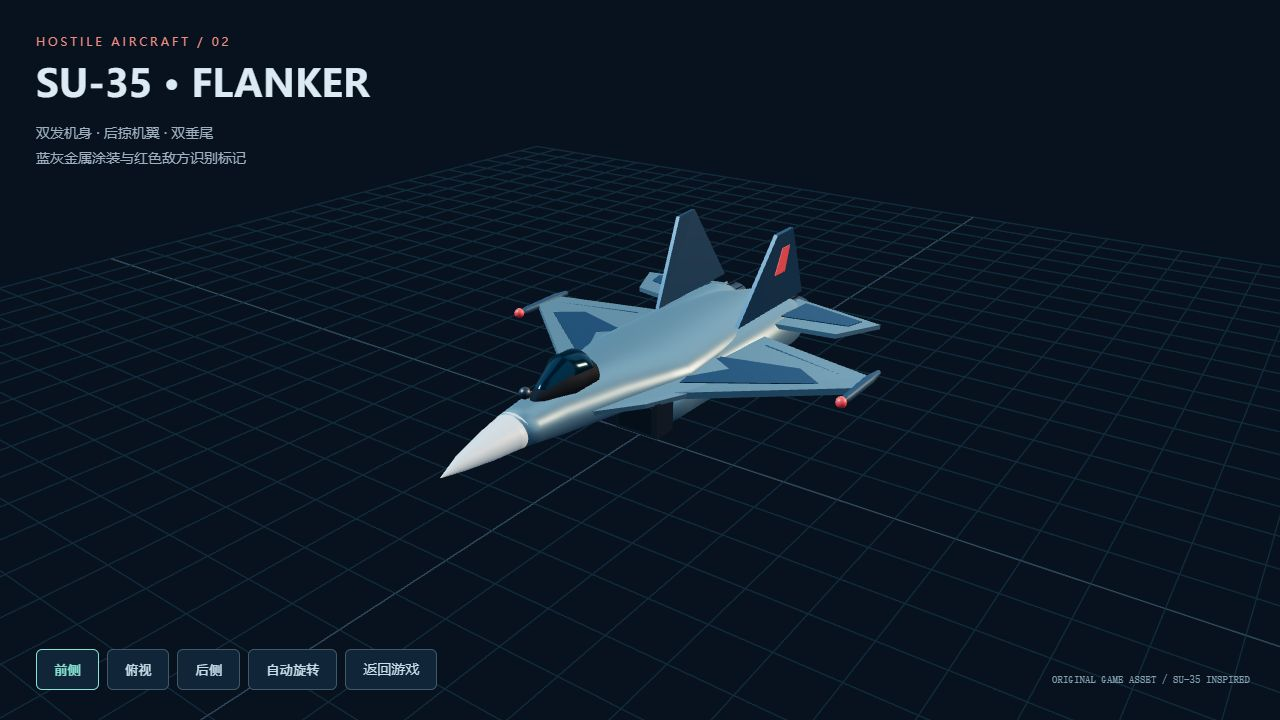
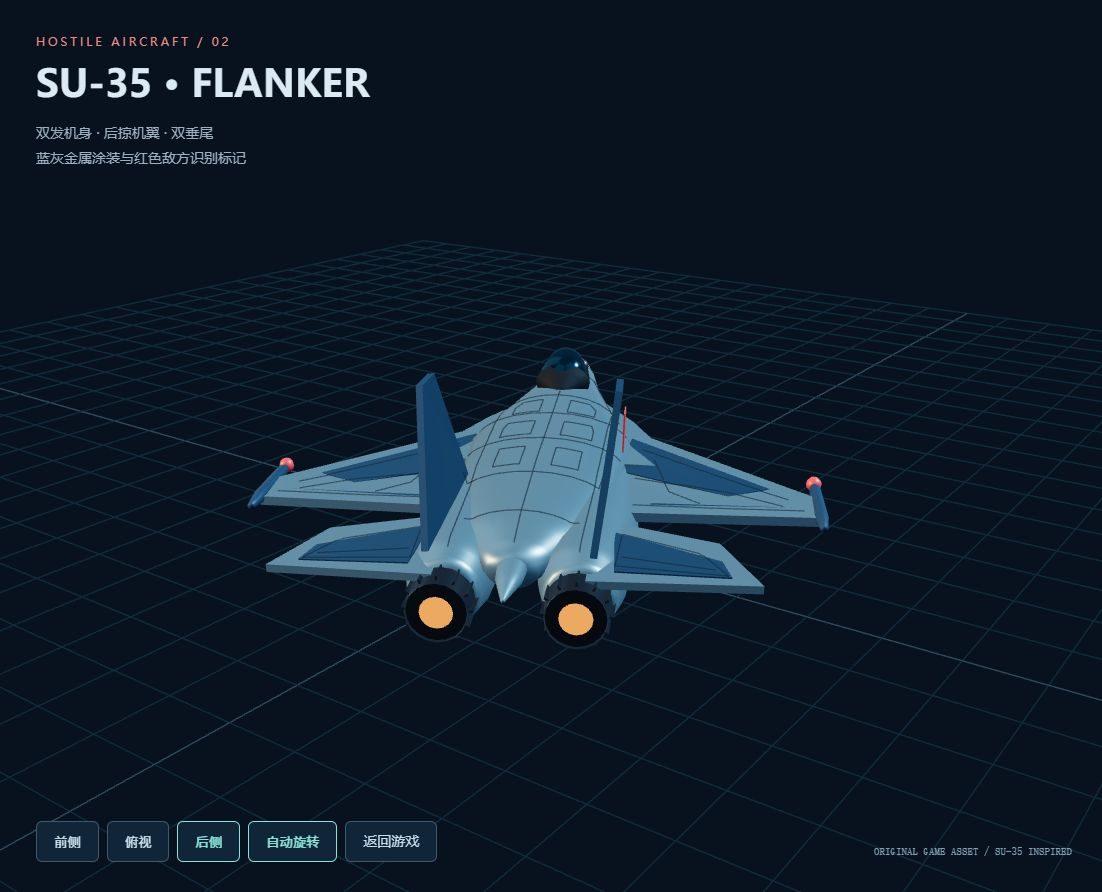
feat: add surface-following aircraft panel seams

diff --git a/game/dist/panel-lines.js b/game/dist/panel-lines.js
@@ -1,0 +1,67 @@
+import * as T from './vendor/three.module.js';
+
+// Hand-authored panel layout, projected onto the actual surface (not triangle edges).
+// Generated once when loading a model; a single depth-tested batch per aircraft.
+export function createPanelLines(meshes, paths, { step=.08, offset=.008 } = {}) {
+  for(const mesh of meshes) { mesh.updateMatrixWorld(true); mesh.geometry.computeBoundingBox(); }
+  const ray=new T.Raycaster(),positions=[],down=new T.Vector3(0,-1,0);
+  const trace=(x,z)=>{
+    ray.set(new T.Vector3(x,30,z),down);
+    const hit=ray.intersectObjects(meshes,false)[0];
+    if(!hit)return null;
+    return hit.point.clone().addScaledVector(hit.face.normal.clone().transformDirection(hit.object.matrixWorld),offset);
+  };
+  for(const path of paths) {
+    let previous=null;
+    for(let i=0;i<path.length-1;i++) {
+      const [x0,z0]=path[i],[x1,z1]=path[i+1],length=Math.hypot(x1-x0,z1-z0),count=Math.max(1,Math.ceil(length/step));
+      for(let j=i?1:0;j<=count;j++) {
+        const t=j/count,point=trace(T.MathUtils.lerp(x0,x1,t),T.MathUtils.lerp(z0,z1,t));
+        // Missing surfaces and abrupt changes are gaps, never floating connecting strokes.
+        if(point&&previous&&point.distanceTo(previous)<step*4+offset*2)positions.push(...previous.toArray(),...point.toArray());
+        previous=point;
+      }
+    }
+  }
+  const geometry=new T.BufferGeometry();geometry.setAttribute('position',new T.Float32BufferAttribute(positions,3));geometry.computeBoundingSphere();
+  const material=new T.LineBasicMaterial({color:0x263642,transparent:true,opacity:.58,depthTest:true,depthWrite:false});
+  const lines=new T.LineSegments(geometry,material);lines.name='airframe-panel-lines';lines.renderOrder=1;
+  return lines;
+}
+const mirrored = paths => [-1,1].flatMap(s=>paths.map(path=>path.map(([x,z])=>[s*x,z])));
+export function f22PanelPaths() {
+  const paths=[];
+  // Curved transverse joints on the nose, wing box and engine deck.
+  for(const [z,width] of [[-7.15,.49],[-6.6,.61],[-2.35,1.58],[.55,1.98],[2.7,1.97],[4.9,1.69],[6.25,1.05]])paths.push([[-width,z],[width,z]]);
+  paths.push([[0,-8.9],[0,-6.6]],[[0,-2.7],[0,6.4]]);
+  return paths.concat(mirrored([
+    [[.28,-7.25],[.52,-6.55],[.72,-5.7]],
+    [[.73,-3.05],[.97,-2.3],[1.08,.5],[1.03,3.9],[.93,6.35]],
+    [[.18,-2.02],[.63,-2.02],[.75,-1.75],[.76,-.65],[.2,-.65],[.18,-2.02]],
+    [[.2,1.02],[.68,1.02],[.78,1.25],[.78,2.2],[.2,2.2],[.2,1.02]],
+    [[1.22,-2.67],[2.3,-1.66],[4.4,.23],[6.28,1.9]],
+    [[2.4,-.7],[2.58,1.45],[3.18,2.42]],
+    [[3.35,.17],[3.57,1.92],[4.8,2.24]],
+    [[2.38,2.83],[4.28,2.44],[6.24,2.1]],
+    [[1.82,4.73],[2.62,5.24],[3.48,6.98],[2.23,7.4],[1.82,4.73]],
+    [[2.06,6.8],[3.58,7.12]],
+    [[.54,3.25],[.77,3.03],[1.25,3.03],[1.37,3.32],[1.32,4.22],[.6,4.22],[.54,3.25]]
+  ]));
+}
+export function su35PanelPaths() {
+  const paths=[];
+  for(const [z,width] of [[1.72,.18],[1.3,.25],[.53,.45],[.1,.54],[-.45,.51],[-1.07,.44],[-1.63,.34]])paths.push([[-width,z],[width,z]]);
+  paths.push([[0,.64],[0,-1.96]]);
+  return paths.concat(mirrored([
+    [[.20,1.33],[.29,.91],[.4,.49],[.39,-.75],[.37,-1.99]],
+    [[.1,.42],[.24,.42],[.29,.32],[.29,.14],[.1,.14],[.1,.42]],
+    [[.1,-.08],[.29,-.08],[.31,-.18],[.31,-.37],[.1,-.37],[.1,-.08]],
+    [[.1,-.63],[.27,-.63],[.27,-.95],[.1,-.95],[.1,-.63]],
+    [[.64,-.02],[1.12,-.39],[1.6,-.74]],
+    [[.61,-.56],[1.24,-.7],[1.56,-.86]],
+    [[.62,-1.04],[1.1,-.99],[1.69,-.91]],
+    [[.73,-.21],[.84,-.76],[1.04,-.93]],
+    [[.59,-1.59],[1.03,-1.77],[1.19,-2.05],[.57,-2.06],[.59,-1.59]],
+    [[.6,-1.94],[1.12,-1.99]]
+  ]));
+}

diff --git a/game/dist/aircraft-model.js b/game/dist/aircraft-model.js
@@ -1,7 +1,8 @@
 import * as T from './vendor/three.module.js';
+import { createPanelLines, f22PanelPaths } from './panel-lines.js';
 
 // The exported model has one identity-transformed mesh per named part.
-export function parseAircraft(buffer){const dv=new DataView(buffer);if(dv.getUint32(0,true)!==0x46546c67)throw Error('Invalid GLB');let json,bin;for(let offset=12;offset<buffer.byteLength;){const len=dv.getUint32(offset,true),type=dv.getUint32(offset+4,true);if(type===0x4e4f534a)json=JSON.parse(new TextDecoder().decode(new Uint8Array(buffer,offset+8,len)));if(type===0x004e4942)bin=offset+8;offset+=8+len;}const group=new T.Group();const mats=json.materials.map(m=>{const p=m.pbrMetallicRoughness;return new T.MeshStandardMaterial({color:new T.Color(...p.baseColorFactor.slice(0,3)),metalness:p.metallicFactor,roughness:p.roughnessFactor,side:T.DoubleSide,envMapIntensity:1.5});});for(const m of json.meshes){for(const p of m.primitives){const g=new T.BufferGeometry();for(const [key,id] of Object.entries(p.attributes)){const a=json.accessors[id],v=json.bufferViews[a.bufferView];g.setAttribute(key==='POSITION'?'position':'normal',new T.BufferAttribute(new Float32Array(buffer,bin+(v.byteOffset||0)+(a.byteOffset||0),a.count*3),3));}g.computeBoundingSphere();const mesh=new T.Mesh(g,mats[p.material]);mesh.name=m.name;group.add(mesh);}}return group;}
+export function parseAircraft(buffer){const dv=new DataView(buffer);if(dv.getUint32(0,true)!==0x46546c67)throw Error('Invalid GLB');let json,bin;for(let offset=12;offset<buffer.byteLength;){const len=dv.getUint32(offset,true),type=dv.getUint32(offset+4,true);if(type===0x4e4f534a)json=JSON.parse(new TextDecoder().decode(new Uint8Array(buffer,offset+8,len)));if(type===0x004e4942)bin=offset+8;offset+=8+len;}const group=new T.Group();const mats=json.materials.map(m=>{const p=m.pbrMetallicRoughness;return new T.MeshStandardMaterial({color:new T.Color(...p.baseColorFactor.slice(0,3)),metalness:p.metallicFactor,roughness:p.roughnessFactor,side:T.DoubleSide,envMapIntensity:1.5});});for(const m of json.meshes){for(const p of m.primitives){const g=new T.BufferGeometry();for(const [key,id] of Object.entries(p.attributes)){const a=json.accessors[id],v=json.bufferViews[a.bufferView];g.setAttribute(key==='POSITION'?'position':'normal',new T.BufferAttribute(new Float32Array(buffer,bin+(v.byteOffset||0)+(a.byteOffset||0),a.count*3),3));}g.computeBoundingSphere();const mesh=new T.Mesh(g,mats[p.material]);mesh.name=m.name;group.add(mesh);}}const skin=group.children.filter(mesh=>!(/canopy|throat|mouth/i.test(mesh.name)));group.add(createPanelLines(skin,f22PanelPaths()));return group;}
 
 // Reorient the game's Y-up, -Z-forward aircraft into the sensor's
 // +X-forward, +Y-left, +Z-up coordinate frame, without mirroring it.

diff --git a/game/dist/enemy-model.js b/game/dist/enemy-model.js
@@ -1,4 +1,5 @@
 import * as T from './vendor/three.module.js';
+import { createPanelLines, su35PanelPaths } from './panel-lines.js';
 
 // Original visual game asset inspired by the Su-35S silhouette; +Z is the nose.
 // Shared immutable geometry/materials keep repeated enemies inexpensive.
@@ -97,6 +98,7 @@ function buildTemplate() {
     const g=new T.BufferGeometry();g.setAttribute('position',new T.Float32BufferAttribute(positions,3));g.setAttribute('normal',new T.Float32BufferAttribute(normals,3));g.computeBoundingSphere();
     const mesh=new T.Mesh(g,mat);mesh.name='su35-'+name;group.add(mesh);
   }
+  group.add(createPanelLines(group.children.filter(mesh=>['su35-skin','su35-camo','su35-nose'].includes(mesh.name)),su35PanelPaths(),{step:.03,offset:.003}));
   group.name='Su-35 inspired enemy';group.userData.parts=names;
   return group;
 }

diff --git a/game/README.md b/game/README.md
@@ -66,6 +66,10 @@ python server.py --open
 
 敌方模型为原创程序化游戏美术，参考 [UAC Su-35 官方资料](https://uacrussia.ru/en/aircraft/lineup/military/su-35/) 的外形特征：长机鼻、单座座舱、翼根边条、后掠机翼、双垂尾、双发机身与圆形喷口。比例按游戏画面调整，不是工程模型；未复制第三方网格或纹理。
 
-源码 `dist/enemy-model.js`，约 5,388 个三角面，按 8 种材质合并绘制。同场敌机共享几何与材质、各自保留独立变换，击毁时只移除实例。新的简化命中范围覆盖较宽机翼和较长机身。
+源码 `dist/enemy-model.js`，约 5,388 个三角面，按 8 种机身材质合并绘制，另有 1 次合模线绘制。同场敌机共享几何与材质、各自保留独立变换，击毁时只移除实例。新的简化命中范围覆盖较宽机翼和较长机身。
 
 运行游戏服务后打开 `/enemy-preview.html` 可查看前侧、俯视、后侧和自动旋转。预览与游戏使用相同模型。测试：`node game/test-enemy-model.mjs` 与 `node game/test-game.mjs`（含翼尖命中、上方射击未命中和机翼碰撞）。
+
+## 机身合模线
+
+F-22 和 Su-35 均增加机身横向接缝、纵向拼接线、检修舱盖和机翼控制面分界线。线条由 `dist/panel-lines.js` 的手工布局投射到现有曲面，采用半透明深灰色细线，保留曲面遮挡；没有命中表面的位置断开。游戏和蓝牙飞机姿态预览共用同一层细节。每架只增加一次线段绘制，敌机之间共享线段资源。它们为游戏美术结构线，非真实飞机制造图。
